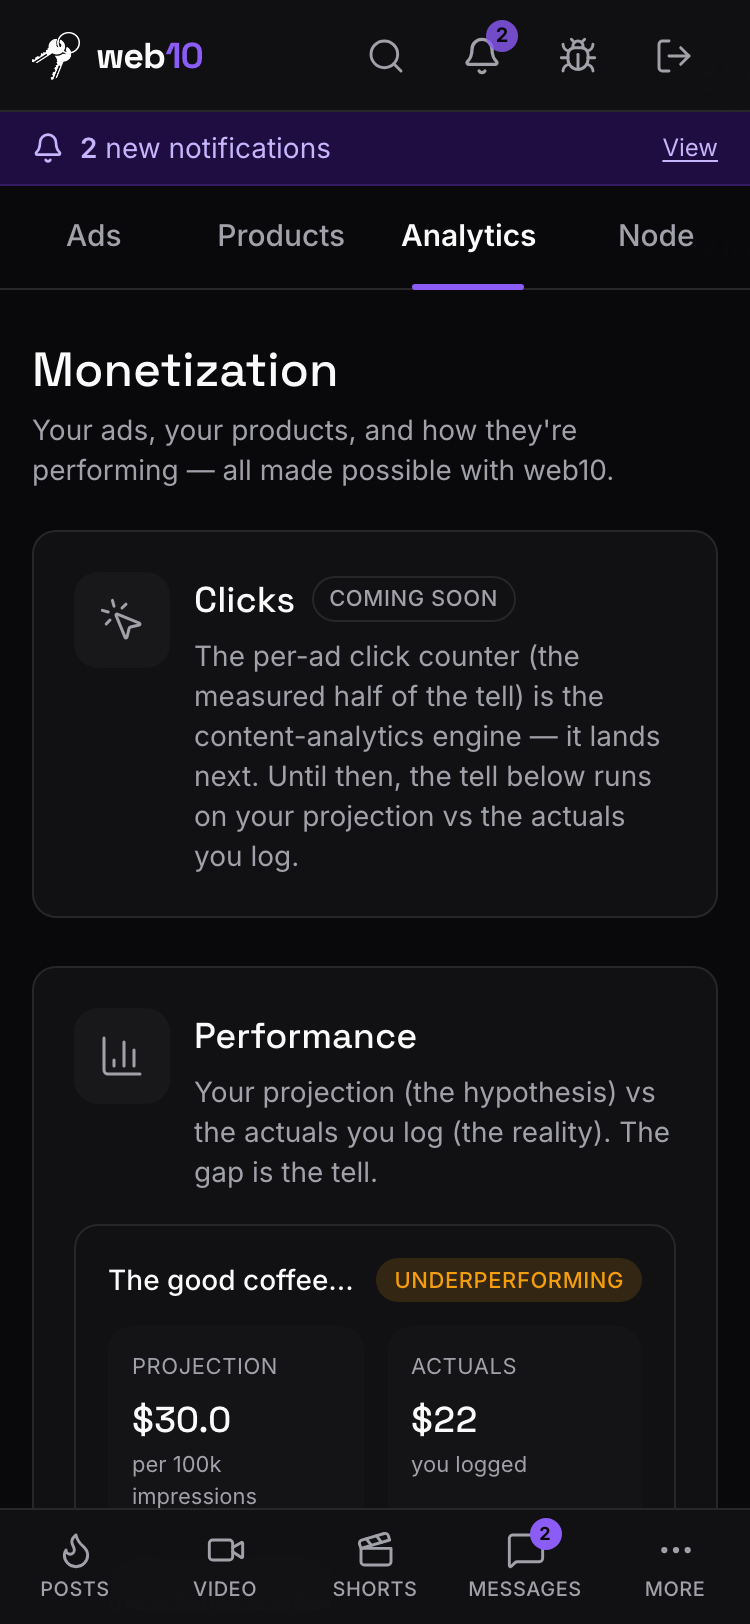
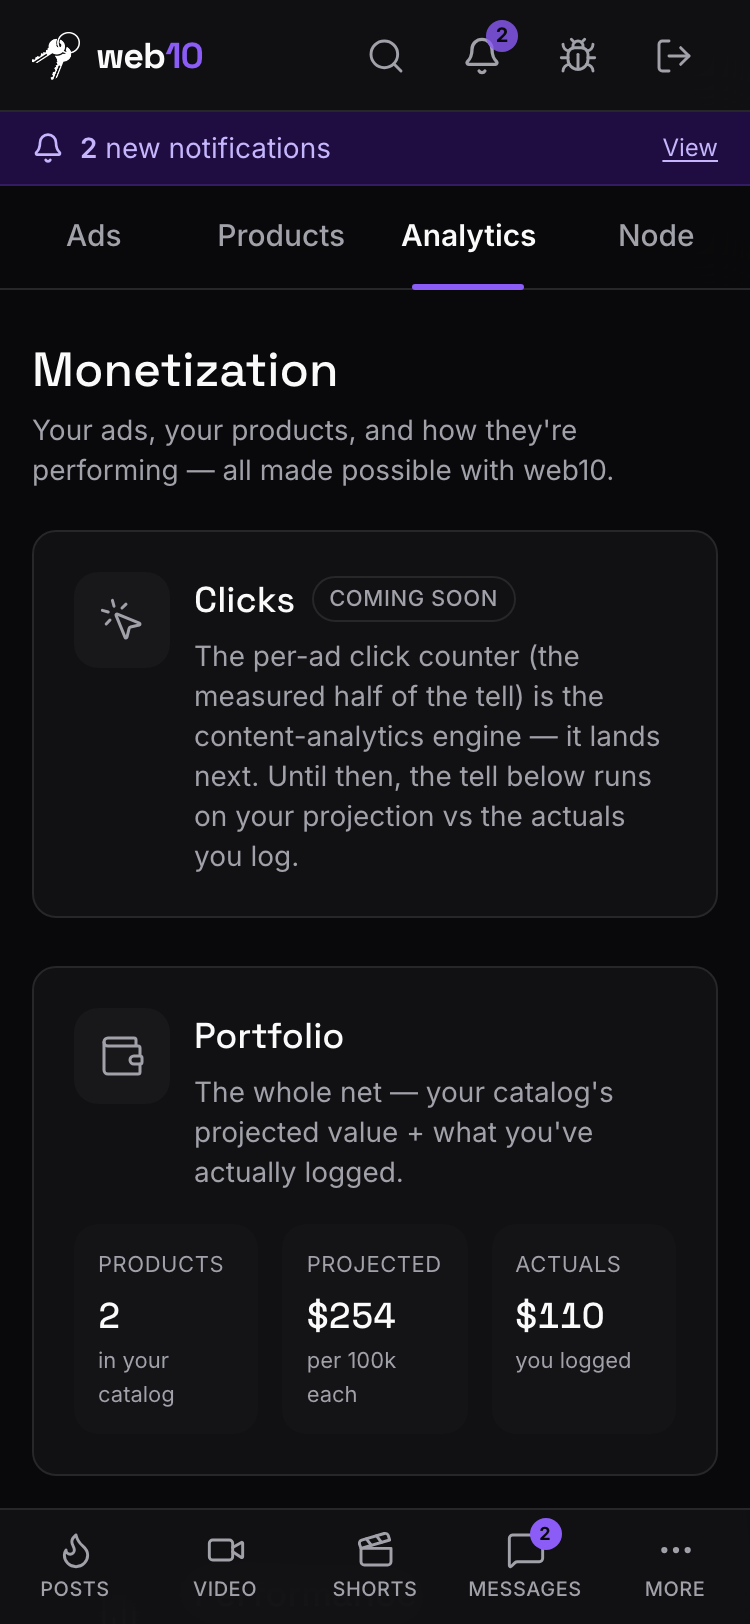
feat(web10-social): the Analytics tab gains the portfolio view + the what-if calculator (3.224.0)
The next in-lane item after the ads-october focus (focus.md DEFERRED) — the
'net's total catch' + the interactive projection. All client-side, D60, zero
node surface.

- Portfolio view: a summary card at the top of the Analytics tab — product
  count + total projected value (sum of per-100k projections) + total actuals
  logged. 30 ads read as a portfolio, not a pile.
- What-if calculator: a per-ad impressions slider (10k-1M) — drag it and the
  projected $ moves live (the 'do I care about this ad' decision made concrete).
- Float fix: formatProjection rounds to cents before the final round, so
  $253.50 no longer displays as $253.

1411 web10-social green, tsc clean. KB monetization.md 'Analytics' updated.

diff --git a/marketing/web10-social/src/components/Monetization/AnalyticsSection.tsx b/marketing/web10-social/src/components/Monetization/AnalyticsSection.tsx
@@ -1,5 +1,5 @@
 import { useState, useEffect, useCallback, useMemo } from 'react';
-import { BarChart3, AlertTriangle, RefreshCw, MousePointerClick } from 'lucide-react';
+import { BarChart3, AlertTriangle, RefreshCw, MousePointerClick, Wallet, SlidersHorizontal } from 'lucide-react';
 import { cn } from '@/lib/utils';
 import { Badge } from '@/components/ui/badge';
 import { Button } from '@/components/ui/button';
@@ -14,6 +14,13 @@ import { projectEarnings, formatProjection, DEFAULT_RATES } from '@/data/ad-proj
 // operator logged from their affiliate dashboard). The gap between them is the
 // tell: "hey analytics is projecting $$$ but making $$, this isnt good, whats
 // up."
+//
+// The **portfolio view** (the deferred "net's total catch") + the **what-if
+// calculator** (the deferred interactive projection): the portfolio summarizes
+// the whole catalog (total projected value + total actuals) so 30 ads read as a
+// portfolio, not a pile; the what-if slider lets the operator drag impressions
+// and watch the projected $ move (the "do I care about this ad" decision made
+// concrete).
 //
 // The **click counter** is the D86 content-analytics engine (a separate lane,
 // not built yet) — so this section shows the projection-vs-actual tell now and
@@ -35,6 +42,12 @@ function computeTell(projection: number | undefined, actuals: number | undefined
   if (ratio >= 0.8) return { label: 'on track', variant: 'brand', note: 'Close to the projection — the rates are about right.' };
   if (ratio >= 0.3) return { label: 'underperforming', variant: 'warning', note: 'Below the projection — the rates may be off, or the creative is weak.' };
   return { label: 'not matching', variant: 'danger', note: 'This isn\u2019t good — the projection and the actuals don\u2019t line up. What\u2019s up?' };
+}
+
+/** Format an impression count for the what-if slider label (10k / 100k / 1M). */
+function formatImpressions(n: number): string {
+  if (n >= 1_000_000) return `${(n / 1_000_000).toLocaleString()}M`;
+  return `${Math.round(n / 1000)}k`;
 }
 
 export function AnalyticsSection() {
@@ -61,6 +74,20 @@ export function AnalyticsSection() {
 
   const productAds = useMemo(() => ads || [], [ads]);
 
+  // The portfolio (the "net's total catch"): the sum of the per-100k projections
+  // across the catalog + the total actuals logged. 30 ads read as a portfolio.
+  const portfolio = useMemo(() => {
+    let projected = 0;
+    let hasProjection = false;
+    let actuals = 0;
+    for (const ad of productAds) {
+      const proj = projectEarnings(100_000, ad.product, DEFAULT_RATES);
+      if (proj !== undefined) { projected += proj; hasProjection = true; }
+      if (ad.product?.actuals !== undefined) actuals += ad.product.actuals;
+    }
+    return { count: productAds.length, projected, hasProjection, actuals };
+  }, [productAds]);
+
   return (
     <div className="space-y-6" data-testid="analytics-section">
       {/* The click counter — the D86 engine (next narrowing). */}
@@ -81,6 +108,44 @@ export function AnalyticsSection() {
         </div>
       </div>
 
+      {/* The portfolio (the "net's total catch"). */}
+      {!loading && !error && productAds.length > 0 && (
+        <div className="rounded border border-border bg-card p-5" data-testid="analytics-portfolio">
+          <div className="flex items-start gap-3">
+            <div className="flex h-12 w-12 flex-shrink-0 items-center justify-center rounded bg-elevated text-muted-foreground">
+              <Wallet className="h-6 w-6" strokeWidth={1.5} />
+            </div>
+            <div className="flex-1">
+              <h3 className="font-display text-lg font-medium text-foreground">Portfolio</h3>
+              <p className="mt-1 text-sm text-muted-foreground">
+                The whole net — your catalog&apos;s projected value + what you&apos;ve actually logged.
+              </p>
+            </div>
+          </div>
+          <div className="mt-4 grid grid-cols-3 gap-3">
+            <div className="rounded bg-elevated/50 p-3">
+              <p className="text-[0.6875rem] uppercase tracking-wide text-muted-foreground">Products</p>
+              <p className="mt-1 font-display text-lg font-medium tabular-nums text-foreground">{portfolio.count}</p>
+              <p className="text-[0.6875rem] text-muted-foreground">in your catalog</p>
+            </div>
+            <div className="rounded bg-elevated/50 p-3">
+              <p className="text-[0.6875rem] uppercase tracking-wide text-muted-foreground">Projected</p>
+              <p className="mt-1 font-display text-lg font-medium tabular-nums text-foreground">
+                {portfolio.hasProjection ? formatProjection(portfolio.projected) : '—'}
+              </p>
+              <p className="text-[0.6875rem] text-muted-foreground">per 100k each</p>
+            </div>
+            <div className="rounded bg-elevated/50 p-3">
+              <p className="text-[0.6875rem] uppercase tracking-wide text-muted-foreground">Actuals</p>
+              <p className="mt-1 font-display text-lg font-medium tabular-nums text-foreground">
+                {portfolio.actuals > 0 ? `$${portfolio.actuals.toLocaleString()}` : '—'}
+              </p>
+              <p className="text-[0.6875rem] text-muted-foreground">you logged</p>
+            </div>
+          </div>
+        </div>
+      )}
+
       <div className="rounded border border-border bg-card p-5">
         <div className="flex items-start gap-3">
           <div className="flex h-12 w-12 flex-shrink-0 items-center justify-center rounded bg-elevated text-muted-foreground">
@@ -89,7 +154,7 @@ export function AnalyticsSection() {
           <div className="flex-1">
             <h3 className="font-display text-lg font-medium text-foreground">Performance</h3>
             <p className="mt-1 text-sm text-muted-foreground">
-              Your projection (the hypothesis) vs the actuals you log (the reality). The gap is the tell.
+              Your projection (the hypothesis) vs the actuals you log (the reality). The gap is the tell. Drag the slider to see the what-if.
             </p>
           </div>
         </div>
@@ -140,9 +205,14 @@ export function AnalyticsSection() {
 
 function AnalyticsRow({ ad }: { ad: AdItem }) {
   const p = ad.product!;
-  const projection = projectEarnings(100_000, p, DEFAULT_RATES);
+  // The what-if calculator (the deferred interactive projection): the operator
+  // drags impressions and the projected $ moves live. Defaults to 100k (the
+  // "100k impressions ~ $X" line). The CTR/conversion use the assumed rates
+  // (the self-calibration overrides the conversion when set).
+  const [impressions, setImpressions] = useState(100_000);
+  const projection = projectEarnings(impressions, p, DEFAULT_RATES);
   const actuals = p.actuals;
-  const tell = computeTell(projection, actuals);
+  const tell = computeTell(projectEarnings(100_000, p, DEFAULT_RATES), actuals);
 
   return (
     <div className="rounded border border-border p-4" data-testid={`analytics-row-${ad.doc.doc_id}`}>
@@ -155,7 +225,7 @@ function AnalyticsRow({ ad }: { ad: AdItem }) {
         <div className="rounded bg-elevated/50 p-3">
           <p className="text-[0.6875rem] uppercase tracking-wide text-muted-foreground">Projection</p>
           <p className="mt-1 font-display text-lg font-medium tabular-nums text-foreground">{formatProjection(projection)}</p>
-          <p className="text-[0.6875rem] text-muted-foreground">per 100k impressions</p>
+          <p className="text-[0.6875rem] text-muted-foreground">at {formatImpressions(impressions)} impressions</p>
         </div>
         <div className="rounded bg-elevated/50 p-3">
           <p className="text-[0.6875rem] uppercase tracking-wide text-muted-foreground">Actuals</p>
@@ -164,6 +234,27 @@ function AnalyticsRow({ ad }: { ad: AdItem }) {
           </p>
           <p className="text-[0.6875rem] text-muted-foreground">you logged</p>
         </div>
+      </div>
+
+      {/* The what-if slider — drag impressions, watch the $ move. */}
+      <div className="mt-3" data-testid={`analytics-whatif-${ad.doc.doc_id}`}>
+        <div className="flex items-center justify-between">
+          <label htmlFor={`whatif-${ad.doc.doc_id}`} className="flex items-center gap-1.5 text-[0.6875rem] text-muted-foreground">
+            <SlidersHorizontal className="h-3 w-3" strokeWidth={1.75} /> What-if impressions
+          </label>
+          <span className="text-[0.6875rem] tabular-nums text-foreground">{formatImpressions(impressions)}</span>
+        </div>
+        <input
+          id={`whatif-${ad.doc.doc_id}`}
+          type="range"
+          min={10_000}
+          max={1_000_000}
+          step={10_000}
+          value={impressions}
+          onChange={(e) => setImpressions(Number(e.target.value))}
+          className="mt-1.5 h-1.5 w-full cursor-pointer appearance-none rounded-full bg-elevated accent-[var(--brand)] focus-visible:outline-none focus-visible:ring-2 focus-visible:ring-ring"
+          data-testid={`analytics-whatif-slider-${ad.doc.doc_id}`}
+        />
       </div>
 
       {tell && <p className="mt-2 text-xs text-muted-foreground">{tell.note}</p>}

diff --git a/marketing/web10-social/src/__tests__/monetization.test.tsx b/marketing/web10-social/src/__tests__/monetization.test.tsx
@@ -343,6 +343,61 @@ describe('AdForm — the product section (ads-october focus #2)', () => {
   });
 });
 
+describe('AnalyticsSection — the portfolio + what-if (ads-october deferred)', () => {
+  const PRODUCT_ADS = {
+    ads: [
+      {
+        doc: { doc_id: 'ad-1', tags: ['ad'] },
+        text: 'The grinder',
+        offer: { kind: 'affiliate', partner: 'Amazon', link: 'https://amzn.to/abc', cta: 'Get it', disclosure: '' },
+        status: 'active' as const,
+        format: 'inline' as const,
+        albums: [] as string[],
+        product: { target: 'product' as const, name: 'The good coffee grinder', price: 30, commission: 10, commission_is_percent: true, actuals: 22 },
+      },
+      {
+        doc: { doc_id: 'ad-2', tags: ['ad'] },
+        text: 'The headphones',
+        offer: { kind: 'affiliate', partner: 'Amazon', link: 'https://amzn.to/def', cta: 'Get it', disclosure: '' },
+        status: 'active' as const,
+        format: 'inline' as const,
+        albums: [] as string[],
+        product: { target: 'product' as const, name: 'The studio headphones', price: 149, commission: 15, commission_is_percent: true, actuals: 88 },
+      },
+    ],
+    albums: [],
+    posts: [],
+  };
+
+  it('the portfolio summarizes the catalog (count + projected total + total actuals)', async () => {
+    checkNodeAdmin.mockResolvedValue(false);
+    readMyCatalog.mockResolvedValue(PRODUCT_ADS);
+    renderAt('/monetize?tab=analytics');
+    const portfolio = await screen.findByTestId('analytics-portfolio');
+    expect(portfolio).toBeInTheDocument();
+    // 2 products; projected total = $30 (grinder) + $223.50 (headphones) per 100k
+    // each = $253.50 → $254 (rounded to cents, then whole dollars); total actuals
+    // = $22 + $88 = $110.
+    expect(portfolio).toHaveTextContent('Products');
+    expect(portfolio).toHaveTextContent('2');
+    expect(portfolio).toHaveTextContent('$254');
+    expect(portfolio).toHaveTextContent('$110'); // 22 + 88
+  });
+
+  it('the what-if slider updates the projection live', async () => {
+    checkNodeAdmin.mockResolvedValue(false);
+    readMyCatalog.mockResolvedValue(PRODUCT_ADS);
+    renderAt('/monetize?tab=analytics');
+    const slider = await screen.findByTestId('analytics-whatif-slider-ad-1');
+    // Default 100k → the grinder projects $30.
+    const row = screen.getByTestId('analytics-row-ad-1');
+    expect(row).toHaveTextContent('$30.0');
+    // Drag to 500k → $150 (linear in impressions).
+    fireEvent.change(slider, { target: { value: '500000' } });
+    expect(row).toHaveTextContent('$150');
+  });
+});
+
 describe('NodeMonetization — overwrite knob (ad-improvements.md)', () => {
   it('shows the overwrite toggle for a node admin', async () => {
     checkNodeAdmin.mockResolvedValue(true);

diff --git a/marketing/web10-social/src/data/ad-projection.ts b/marketing/web10-social/src/data/ad-projection.ts
@@ -78,7 +78,10 @@ export function projectEarnings(
  */
 export function formatProjection(usd: number | undefined): string {
   if (usd === undefined) return '—';
-  if (usd >= 100) return `$${Math.round(usd).toLocaleString()}`;
-  if (usd >= 1) return `$${usd.toFixed(1)}`;
-  return `$${usd.toFixed(2)}`;
+  // Round to cents first — kills the float noise (149 × 0.15 = 22.34999…, not
+  // 22.35) so $253.50 doesn't display as $253. Money is in cents.
+  const v = Math.round(usd * 100) / 100;
+  if (v >= 100) return `$${Math.round(v).toLocaleString()}`;
+  if (v >= 1) return `$${v.toFixed(1)}`;
+  return `$${v.toFixed(2)}`;
 }

diff --git a/knowledge/strategy/parallel-execution.md b/knowledge/strategy/parallel-execution.md
@@ -686,6 +686,7 @@ first-class; an ad in a few via a tag-like field). The full curation engine
 - [~ 3.165.1] **Node ads stop leaking into the marketing /trending board as ranked posts (the every-surface rule) + the reserved ad tags are blocked on user posts** (operator pass, 25.09.2026, two screenshots: "are ads supposed to look like that is that as expected?" + "seeing node ads showing up unattached in the discover … they arent supposed to get into the discover like that, they are supposed to attach to posts in the read, ads arent supposed to be in this group"). **The root:** a node ad is a `posts` doc that lives ON the discover group (where `get_active_node_ads` finds it), so every surface that reads the group for standalone posts sees it; the 3.134.0 leak fix dropped `ad`-tagged docs in the social app's read (`dropAdPosts`) but the marketing site has its **own** anon group read (`FeedPreview.tsx` `fetchDiscoverFeed`/`searchDiscoverPosts`) that never filtered → node ads leaked in as plain ranked posts on /trending. **Build:** (1) marketing-ui `dropAdDocs` (`tags ∌ 'ad'`) in `fetchDiscoverFeed` (before the engagement read) + `searchDiscoverPosts`; the node stays generic (D60). (2) web10-social reserved-tag guard — `ad`/`node_ad`/`ad_album` are reserved for the ad machinery (a `posts` doc tagged `ad` IS ad inventory by definition); `createPost`/`updatePost` (`data/posts.ts`) reject a reserved tag with a user-facing error before the write ("Not so fast — #ad is a web10 ads-only tag."); the ad catalog writes via `w.create`/`w.update` directly so the machinery is unaffected. **Tests:** `Trending.test.tsx` +1 (ad docs never render as board posts); `posts.test.ts` +7 (reserved set, violation, create/update reject, clean tags pass). 979 social + 277 marketing-ui green, `tsc` clean. **KB:** `ads.md` "The every-surface rule" + "Reserved Tags (the write-path guard)"; `node-ads.md` "What This Is NOT" + `discover-card.md` "The ad slot" cross-reference the rule.
 - [~ 3.217.0] **The Monetization surface is one tab — a node admin runs an ad as a personal ad OR a node ad from one surface (the nav's separate "Node Monetization" entry retires)** (operator, 05.10.2026: "as a node owner, if you have an admin account, it is nice if you can run an ad in your account as a personal ad OR a node ad, i.e. instead of having monetization and node monetization in one panel, just could have one tab. because i made 30 ads just now, realizing it would be more convenient if i could chose now, if i would like to make an ad or a node ad!"). **The change (all client-side, D60 — zero node surface):** (1) **the in-page tab row** (`MonetizationScreen.tsx`) — the node admin gets a **My Ads | Node Ads** tab row (the X/Threads idiom the Posts screen's Discover | Following row established) at the top of the surface; the URL holds the section (`?tab=node` | default My Ads), so refresh restores it + it's deep-linkable. A non-admin never sees the row (one section, no switcher). (2) **the ad form's scope toggle** (`CreatorMonetization.tsx`) — the node admin's **New Ad** form gains a **Run as** toggle (Personal ad / Node ad): personal → the creator's followers group (the existing path); node → the discover group, tagged `ad` + `node_ad` (the operator's inventory, via a new `createNodeAd` in `ads-catalog.ts`). Edit mode has no scope (the ad's home is fixed by where it was created). A non-admin's form is unchanged (personal only). (3) **the nav consolidates to one entry** (`Layout.tsx`) — the separate "Node Monetization" nav row (desktop More popover + mobile More sheet) is removed; the single **Monetization** entry highlights on ANY `/monetize` section (the surface's tab row is the switcher). **Tests:** `monetization.test.tsx` — the admin tab-row test re-pinned (the row now EXISTS for the admin) + the tab-switch test + the scope-toggle tests (admin sees it, non-admin doesn't, node scope → `createNodeAd`); `socialScreens.test.tsx` — the five nav tests re-pinned (one Monetization entry, no Node row, highlights on any section). 1330 web10-social green, `tsc` clean. Screenshots: My Ads tab + Node Ads tab + the New Ad form's Run-as toggle, desktop + 375. KB `monetization.md` "The Surface" + "The Nav" updated.
 - [~ 3.223.0] **The ads-october focus — product fields on the ad, the little projection, the Monetization tab restructure (Ads | Products | Analytics), the public storefront, and the projection-vs-actual tell** (the October conversation's narrowing, `knowledge/strategy/ads-october/focus.md` — the "use it more" path at 30 ads). **All app-owned, D60 — zero node surface.** (1) **Product fields on the ad (focus #2, "the ad is the superset")** — the ad's body gains an optional leaf-typed `product` section (`target` / `name` / `price` / `commission` + `commission_is_percent` / `actuals` / `calibration`); `AdProduct` in `data/types.ts` (+ `parseProduct`), threaded through `buildOfferBody` / `buildNodeAdBody` / `updateAd` / `updateNodeAd` / `createNodeAd` (`data/ads-catalog.ts`; `product: null` clears it on update). The ad form gains a **Product** section (toggle + fields + the live projection line). (2) **The little projection (focus #3)** — `data/ad-projection.ts`: a *static* "100k impressions ~ $X" line from `price × commission × assumed CTR/conversion` (defaults reproduce the operator's "$30" example); the self-calibration overrides the assumed conversion. (3) **The Monetization tab restructure (focus #5)** — the creator's `/monetize` tab is now **Ads | Products | Analytics** (the tab-row idiom, `?tab=` deep-linkable, always present) + **Node** (admin only). Products = the catalog of the ad's product attributes (the storefront's data); Analytics = the projection-vs-actual tell. (4) **The public storefront (focus #1, "Amazon storefront parity")** — a deep-linkable `/u/:username/store` route: the "here's everything I recommend" destination, a browsable grid of the creator's product ads. Group-gated (I3): owner + followers read it; anon / non-follower → the "follow to browse" state (no new grants, D60-clean). A **Store** button on the profile header deep-links here. (5) **The projection-vs-actual tell (focus #4)** — the Analytics tab shows the projection (the hypothesis) vs the actuals (the operator-logged payout, the "actuals box") with a diagnostic badge + note. The **click counter** (the measured half) is the **D86 content-analytics engine** (a separate lane, not built yet) — shown as a "clicks coming soon" note. **Tests:** `adProjection.test.ts` (new, 14) + `adsCatalog.test.ts` +5 + `monetization.test.tsx` re-pinned to the new tab structure + Products/Analytics switching + the product-section form. 1409 web10-social green, `tsc` clean. KB `social/ads.md` "The Product Section" + `social/monetization.md` updated. Screenshots: `monetize-{ads,products,analytics}-{desktop,375}.png` + `storefront-{desktop,375}.png`.
+- [~ 3.224.0] **The Analytics tab gains the portfolio view + the what-if calculator — the deferred "net's total catch" + interactive projection** (the next in-lane item after the ads-october focus — `focus.md` DEFERRED: "the interactive calculator (drag a slider, see the projected $) and the portfolio view (all 30 ads, projected total)"). **All client-side, D60 — zero node surface.** (1) **The portfolio view** — a summary card at the top of the Analytics tab: product count + the total projected value (the sum of the per-100k projections) + the total actuals logged — so 30 ads read as a portfolio, not a pile (the "net's total catch"). (2) **The what-if calculator** — a per-ad impressions slider (10k–1M, default 100k): drag it and the projected $ moves live — the "do I care about this ad" decision made concrete. (3) **Float fix** — `formatProjection` rounds to cents before the final round, so `$253.50` no longer displays as `$253`. **Tests:** `monetization.test.tsx` +2 (portfolio summary; what-if slider updates the projection live) + `adProjection.test.ts` re-pinned for the cents-rounding. 1411 web10-social green, `tsc` clean. KB `social/monetization.md` "Analytics" updated. Screenshots: `monetize-analytics-{desktop,375}.png` (re-shot).
 
 ### Lane: node-ads (D57)
 **Owns:** `api/app/v3/services/clickhouse.py` (node ad query + read-time attachment), `api/app/v3/endpoints/documents.py` (the read enrichment — the third join: `doc.ad` + `doc.node_ad`), `api/app/services/config.py` + `api/app/models/config.py` (`node_ad_percentage`), `ui/src/components/Studio/` (Ad Inventory card), `marketing/web10-social/src/components/Feed/` (renderer: `node_ad` tag → "Sponsored" label, both ads on the same post), `e2e/tests/node-ads.spec.ts`, `api/tests/test_node_ads.py`

diff --git a/knowledge/changelogs/CHANGELOG.md b/knowledge/changelogs/CHANGELOG.md
@@ -1,3 +1,6 @@
+3.224.0 || 06.10.2026
+feat(web10-social): **the Analytics tab gains the portfolio view + the what-if calculator — the deferred "net's total catch" + interactive projection** — the next in-lane item after the ads-october focus (`knowledge/strategy/ads-october/focus.md` DEFERRED: "the interactive calculator (drag a slider, see the projected $) and the portfolio view (all 30 ads, projected total)"). **All client-side, D60 — zero node surface.** (1) **The portfolio view** — a summary card at the top of the Analytics tab: the product count + the total projected value (the sum of the per-100k projections across the catalog) + the total actuals logged — so 30 ads read as a portfolio, not a pile (the "net's total catch"). (2) **The what-if calculator** — a per-ad impressions slider (10k–1M, default 100k): drag it and the projected $ moves live (`impressions × CTR × conversion × commission-per-sale`, the self-calibration overriding the assumed conversion) — the "do I care about this ad" decision made concrete. (3) **Float fix** — `formatProjection` now rounds to cents before the final round (money is in cents), so `$253.50` no longer displays as `$253` (the `149 × 0.15 = 22.34999…` float noise). **Tests:** `monetization.test.tsx` +2 (the portfolio summarizes count + projected total + total actuals; the what-if slider updates the projection live) + `adProjection.test.ts` re-pinned for the cents-rounding. 1411 web10-social green, `tsc` clean. KB `social/monetization.md` "Analytics" updated (the portfolio + the what-if). Screenshots: `monetize-analytics-{desktop,375}.png` (re-shot). Lane: `ads (monetization)` in `parallel-execution.md`.
+
 3.223.0 || 06.10.2026
 feat(web10-social): **the ads-october focus — product fields on the ad, the little projection, the Monetization tab restructure (Ads | Products | Analytics), the public storefront, and the projection-vs-actual tell** — the October conversation's narrowing (`knowledge/strategy/ads-october/focus.md`), the "use it more" path at 30 ads. **All app-owned, D60 — zero node surface.** (1) **Product fields on the ad (focus #2, "the ad is the superset"):** the ad's body gains an optional leaf-typed `product` section (`target` / `name` / `price` / `commission` + `commission_is_percent` / `actuals` / `calibration`) — `AdProduct` in `data/types.ts` (+ `parseProduct`), threaded through `buildOfferBody` / `buildNodeAdBody` / `updateAd` / `updateNodeAd` / `createNodeAd` (`data/ads-catalog.ts`; `product: null` clears it on update — the node's shallow merge). The ad form gains a **Product** section (a toggle + the fields + the live projection line). (2) **The little projection (focus #3):** `data/ad-projection.ts` — a *static* "100k impressions ~ $X" line from `price × commission × assumed CTR/conversion` (the defaults reproduce the operator's "$30" example: $30 item @ 10% = $3/sale → 100k × 1% × 1% × $3 = $30); the self-calibration (`calibration`) overrides the assumed conversion. (3) **The Monetization tab restructure (focus #5):** the creator's `/monetize` tab is now **Ads | Products | Analytics** (the tab-row idiom, `?tab=` deep-linkable, always present) + **Node** (admin only, the operator's inventory — a different role, kept separate). **Products** = the catalog of the ad's product attributes (the storefront's data, the "what I'm selling" view); **Analytics** = the projection-vs-actual tell (the "how it's performing" view). (4) **The public storefront (focus #1, "Amazon storefront parity"):** a deep-linkable `/u/:username/store` route — the "here's everything I recommend" destination, a browsable grid of the creator's product ads (picture + name + price + `$ / sale` + `~$ / 100k` + the offer CTA). Group-gated (I3): owner + followers read it; anon / non-follower → the "follow to browse" state (no new grants, D60-clean). A **Store** button on the profile header (owner + visitor) deep-links here. (5) **The projection-vs-actual tell (focus #4):** the Analytics tab shows the projection (the hypothesis) vs the actuals (the operator-logged payout, the "actuals box") side by side, with a diagnostic badge (winner / on track / underperforming / not matching) + a note. The **click counter** (the measured half) is the **D86 content-analytics engine** (a separate lane, not built yet) — shown as a "clicks coming soon" note. **Tests:** `adProjection.test.ts` (new, 14) + `adsCatalog.test.ts` +5 (product parse/build/update) + `monetization.test.tsx` re-pinned to the new tab structure + Products/Analytics tab switching + the product-section form (toggle, live projection, product passthrough). 1409 web10-social green, `tsc` clean. KB `social/ads.md` "The Product Section" + `social/monetization.md` (the tab restructure + the storefront + the data model) updated. Screenshots: `monetize-{ads,products,analytics}-{desktop,375}.png` + `storefront-{desktop,375}.png`. Lane: `ads (monetization)` in `parallel-execution.md`.
 

diff --git a/knowledge/knowledge-base/web10-v3/social/monetization.md b/knowledge/knowledge-base/web10-v3/social/monetization.md
@@ -115,6 +115,15 @@ The actuals box is **human-in-the-loop**: web10 can't see the affiliate payout
 (off-platform, no API), so the operator logs the number web10 can't measure —
 the "organic, no-integration" trade-off. The **self-calibration** (the operator
 sets their own click→purchase %) overrides the projection's assumed conversion.
+
+The **portfolio view** (the "net's total catch") summarizes the whole catalog at
+the top: product count + the total projected value (the sum of the per-100k
+projections) + the total actuals logged — so 30 ads read as a portfolio, not a
+pile. The **what-if calculator** (the interactive projection) is a per-ad
+impressions slider: drag it and the projected $ moves live (the "do I care
+about this ad" decision made concrete). Both are pure client-side math over the
+product fields — no node surface (D60).
+
 Data: `readMyCatalog` filtered to product ads (`AnalyticsSection.tsx`). No node
 surface (D60).
 
